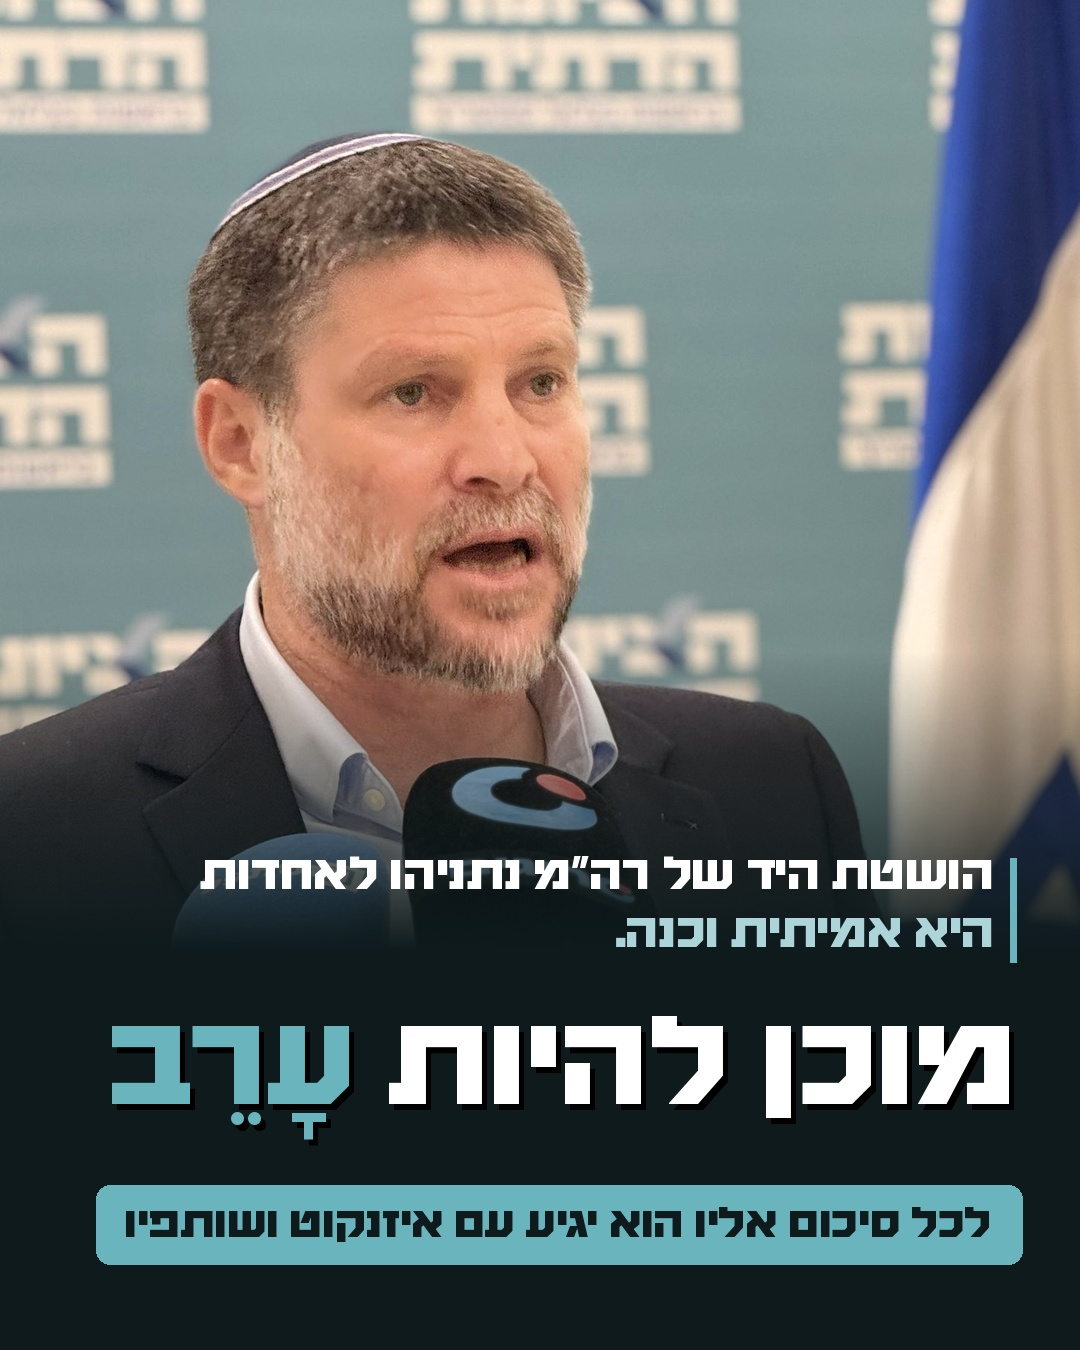
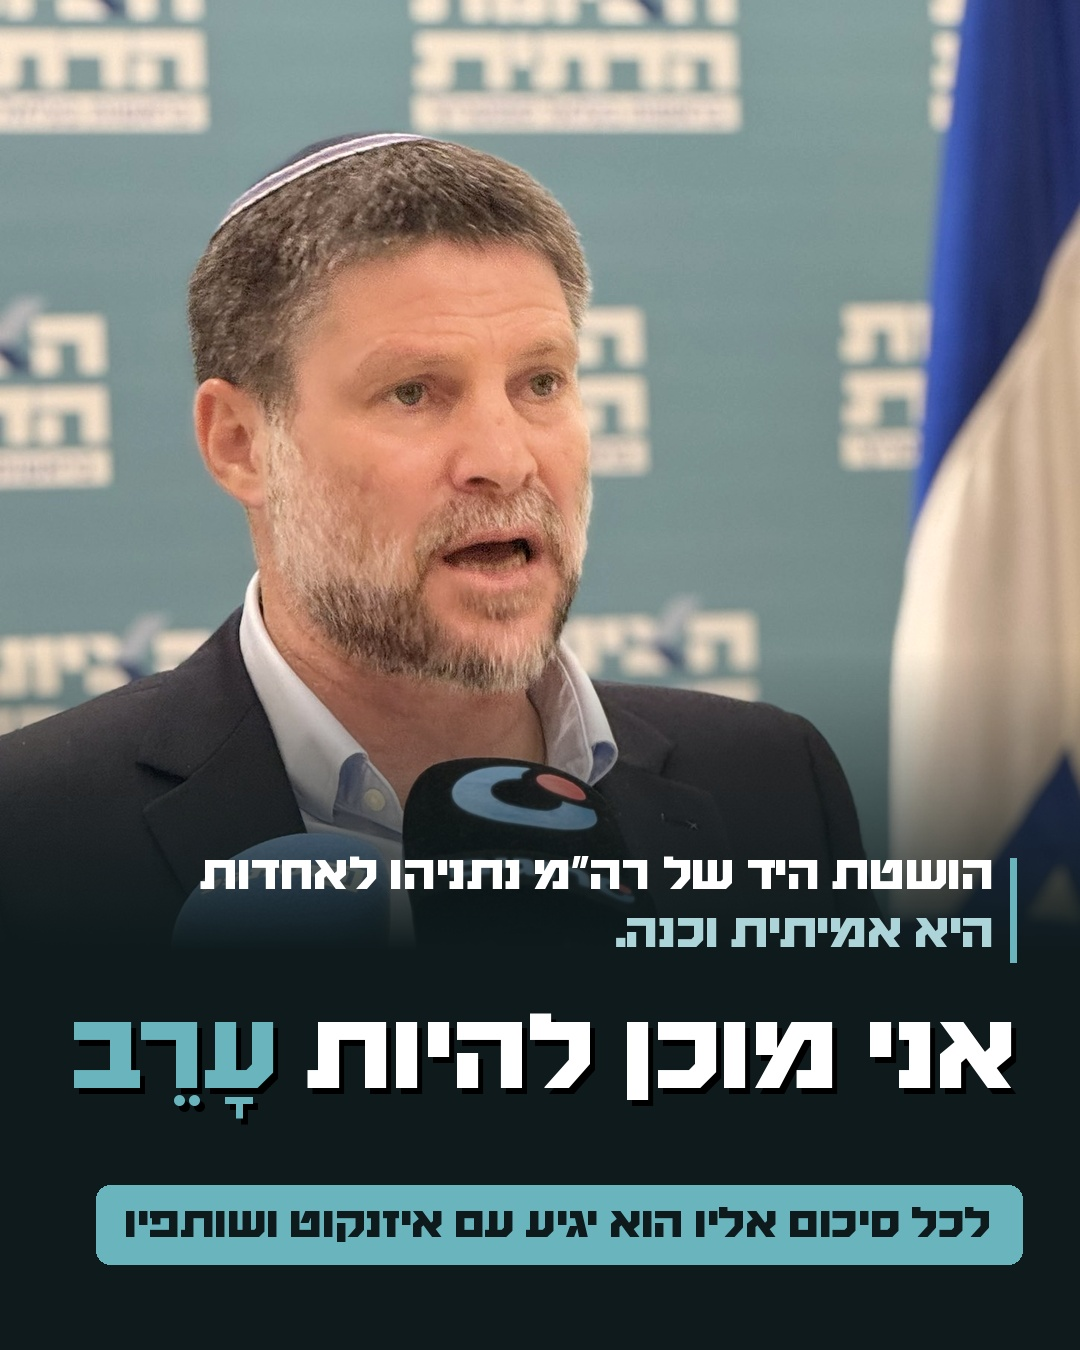
Unity post: 'אני מוכן להיות עָרֵב'
Claude-Session: https://claude.ai/code/session_01RS3QK6pAd3YhyAuXZSJjH1

Changed region(s): [[0.0611, 0.7467, 0.9472, 0.84]]

diff --git a/content-kit/hatzionut-hadatit/2026-11-post-unity-hand/make.py b/content-kit/hatzionut-hadatit/2026-11-post-unity-hand/make.py
@@ -27,7 +27,7 @@ d.text((R - 22, y), k1, font=fk, fill='white', anchor='ra', direction='rtl')
 d.text((R - 22, y + 58), k2, font=fk, fill=PALE, anchor='ra', direction='rtl')
 y += 150
 # THIS
-a, b = 'מוכן להיות', 'עָרֵב'   # niqqud so it can't be read as 'Arabs'
+a, b = 'אני מוכן להיות', 'עָרֵב'   # niqqud so it can't be read as 'Arabs'
 fh = F(130)
 while d.textlength(a + ' ' + b, font=fh, direction='rtl') > W - 130: fh = F(fh.size - 2)
 d.text((R + 5, y + 6), a, font=fh, fill=(0, 0, 0), anchor='ra', direction='rtl')
